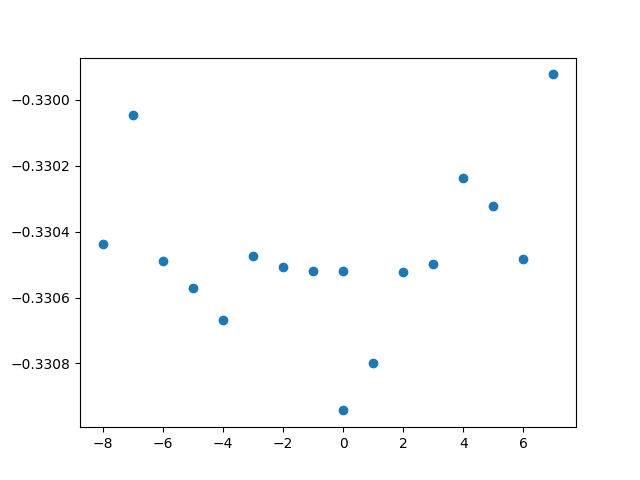
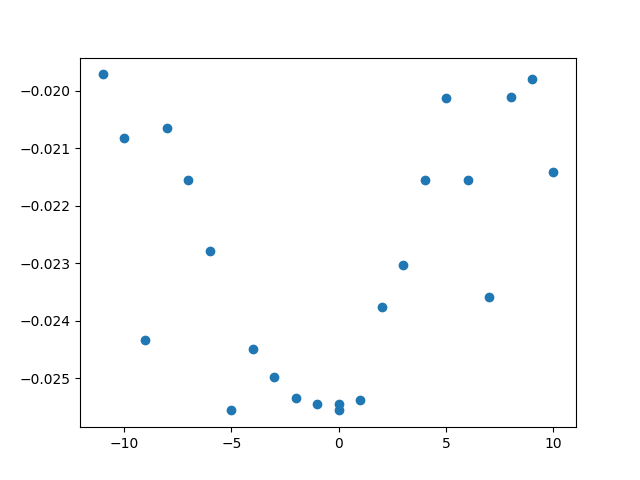
need model to test QHA

diff --git a/lightning_ani/anscan.py b/lightning_ani/anscan.py
@@ -21,7 +21,7 @@ print(aev_dim)
 aev_computer = data.aev_computer
 
 model = NNPLightningModelDF(aev_computer=aev_computer, aev_dim=aev_dim)
-ckpt_nnp = model.load_from_checkpoint("./runs/epoch=75-step=5244.ckpt")  
+ckpt_nnp = model.load_from_checkpoint("./runs/epoch=998-step=68931.ckpt")  
 nn = torchani.ANIModel([ckpt_nnp.H_network, ckpt_nnp.C_network, ckpt_nnp.S_network])
 test_model = torchani.nn.Sequential(aev_computer, nn)
 
@@ -40,6 +40,7 @@ write("opt.pdb", molecule)
 vib = Vibrations(molecule)
 vib.run()
 vib.write_jmol()
+vib.summary()
 
 species = torch.tensor(molecule.get_atomic_numbers(), dtype=torch.long).unsqueeze(0)
 masses = torchani.utils.get_atomic_masses(species)
@@ -48,7 +49,7 @@ coordinates = torch.from_numpy(molecule.get_positions()).unsqueeze(0).requires_g
 
 cell = torch.tensor(molecule.get_cell()).float()
 pbc = torch.tensor([True,True,True])
-energies = model((species, coordinates), cell=cell, pbc=pbc).energies
+energies = model((species, coordinates), cell=cell, pbc=pbc)
 hessian = torchani.utils.hessian(coordinates,energies=energies)
 
 freq, modes, fconstants, rmasses = torchani.utils.vibrational_analysis(masses, hessian, mode_type='MWN', unit='cm^-1')
@@ -56,8 +57,8 @@ torch.set_printoptions(precision=5, sci_mode=False)
 print(freq)
 
 polOrder =  3
-numPoints = 7
-stepsize = 1
+numPoints = 10
+stepsize = 0.2
 freq_cm =  freq[mode-1]
 
 clas_sdene = (freq_cm/8065.5)*(1/27.21)
